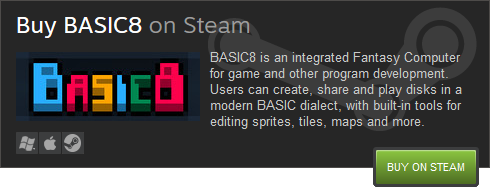
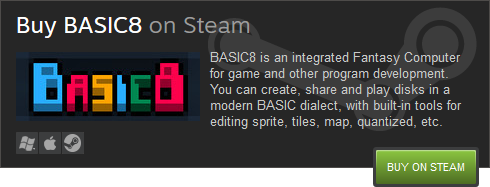
*updated.

Changed region(s): [[0.4286, 0.4545, 0.949, 0.5348], [0.5816, 0.615, 0.8878, 0.6952]]

diff --git a/README.md b/README.md
@@ -15,7 +15,7 @@
 
 | FANTASY | COMPUTER |
 |----|----|
-| <img src="pages/imgs/app.png" width="256"> | BASIC8 is an integrated **Fantasy Computer** for game and other program development. You can create, share and play disks in a modern BASIC dialect, with built-in tools for editing sprites, tiles, maps and more. |
+| <img src="pages/imgs/app.png" width="256"> | BASIC8 is an integrated **Fantasy Computer** for game and other program development. You can create, share and play disks in a modern BASIC dialect, with built-in tools for editing sprite, tiles, map, quantized, etc. |
 
 It's been a while since we used to enjoy coding and playing straightforward after a computer bootup. The goal of BASIC8 is to bring a sense of joy back from retro/vintage computing and gaming, also be quick at getting higher level stuff done.
 
@@ -36,7 +36,7 @@ It's been a while since we used to enjoy coding and playing straightforward afte
 
 ![](pages/imgs/tools.png)
 
-BASIC8 provides built-in tools for editing sprites, tiles, maps, etc. And extra tools as regular disks, eg. [making sound effect](http://steamcommunity.com/sharedfiles/filedetails/?id=1352904074) with the [Wave Maker](http://steamcommunity.com/sharedfiles/filedetails/?id=1352790993). Furthermore, it's even possible to [bring your own tools](http://steamcommunity.com/sharedfiles/filedetails/?id=1350153766), or use [plugins](https://github.com/paladin-t/b8.plugins).
+BASIC8 provides built-in tools for editing sprite, tiles, map, quantized, etc. And extra tools as regular disks, such as the [Wave Maker](http://steamcommunity.com/sharedfiles/filedetails/?id=1352790993), [Player Maker](http://steamcommunity.com/sharedfiles/filedetails/?id=1328727512). It's furthermore possible to [bring your own tools](http://steamcommunity.com/sharedfiles/filedetails/?id=1350153766), or use [plugins](https://github.com/paladin-t/b8.plugins).
 
 ### Shareable disks
 
@@ -52,7 +52,7 @@ BASIC8 disks can be handily shared via [Workshop](http://steamcommunity.com/app/
 
 ![](pages/imgs/banner_platforms.png)
 
-Make redistributable [standalone player as executable binary](http://steamcommunity.com/sharedfiles/filedetails/?id=1328785409) with the [Player Maker](http://steamcommunity.com/sharedfiles/filedetails/?id=1328727512) for Windows, Mac OS X and Linux.
+BASIC8 can be productive. Make redistributable [standalone player as executable binary](http://steamcommunity.com/sharedfiles/filedetails/?id=1328785409) with the [Player Maker](http://steamcommunity.com/sharedfiles/filedetails/?id=1328727512) for Windows, Mac OS X and Linux.
 
 ### Get BASIC8
 
@@ -73,6 +73,6 @@ Make redistributable [standalone player as executable binary](http://steamcommun
 |----|----|
 | Discuss | [Forums](http://steamcommunity.com/app/767240/discussions/) |
 | Chat | [#basic8](https://discord.gg/phR38jm) [Fantasy Consoles](https://discord.gg/e4cpeuV) |
-| Twitter | [@wangrenxin](https://twitter.com/wangrenxin), [#basic8fc](https://twitter.com/hashtag/basic8fc?src=hash) |
+| Twitter | [@wangrenxin](https://twitter.com/wangrenxin) |
 | Devlogs | [Steam discussion](http://steamcommunity.com/app/767240/discussions/9/) |
 | Projects | [Tracking boards](https://github.com/paladin-t/b8/projects) |
